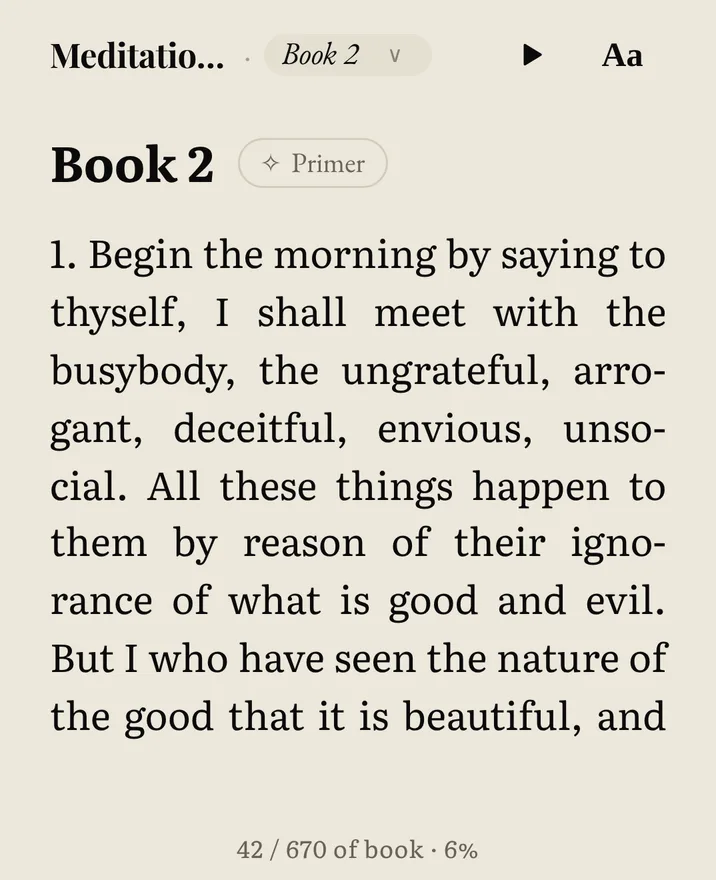
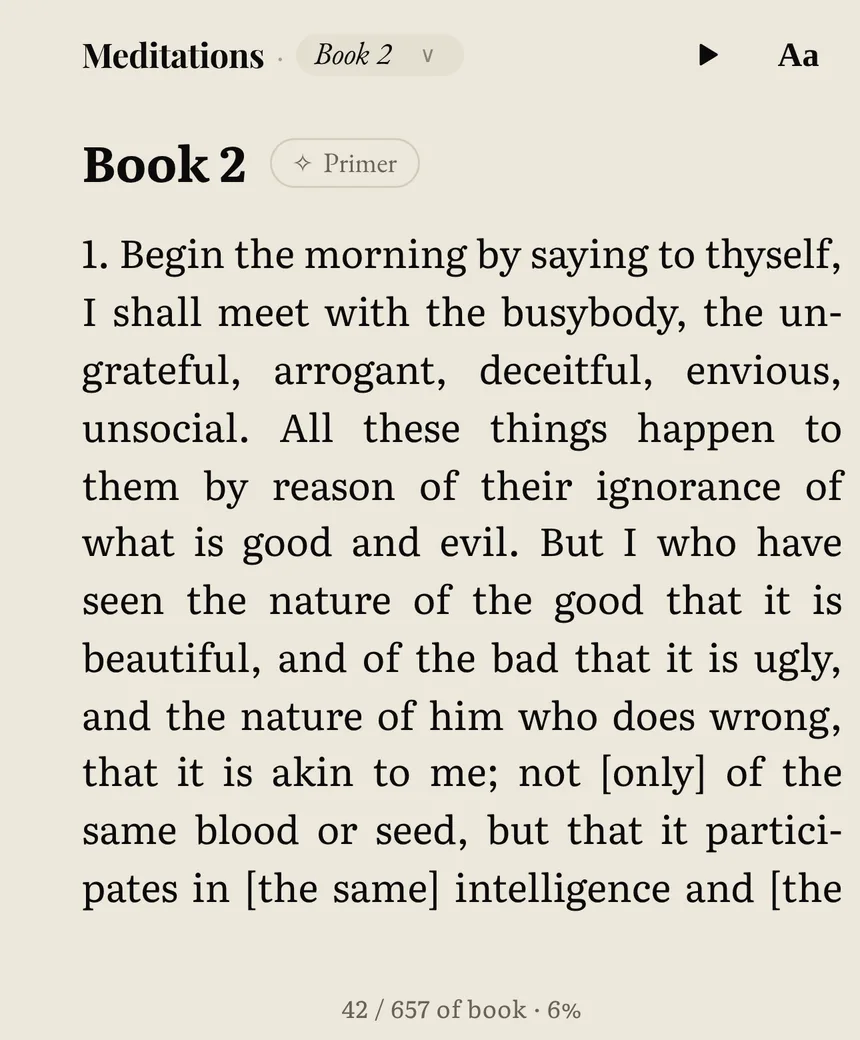
/about: Modern second, word-by-word Listen, blank margin, smaller phone chrome, no card needed
Anders, 19 Nov:
- Order: Explain, Modern, Listen (to the modern English), Summary.
- Listen plays fourteen frames 280 ms apart that cut into each other, so the
  marked word moves word by word instead of jumping.
- Desktop: the margin starts blank (no hint or Primer link in the opening frames).
- Phone: the reader is captured wider (430 px) and shown narrower, so its
  selection menu reads at its real size; the Explain and Summary cards peek
  further (two sentences).
- Top bar on every width: Create account (quiet) and Start reading.
- Pricing: no credit card is needed for the free first month of Premium.

Test change (flagged): tryPage.test.ts now expects the new step order.

Claude-Session: https://claude.ai/code/session_01MT1m8mq3NtYNBEbe7tz8nU

diff --git a/app/public/about.html b/app/public/about.html
@@ -22,9 +22,9 @@
 <link rel="icon" href="/favicon.ico">
 <link rel="stylesheet" href="/fonts/tinct-fonts.css">
 <link rel="stylesheet" href="/lab/tinct-ui.css?v=20261009rel10">
-<link rel="stylesheet" href="/lab/try/try.css?v=20261119wave">
+<link rel="stylesheet" href="/lab/try/try.css?v=20261119order">
 <script type="module" src="/lab/internal-traffic.js"></script>
-<script src="/lab/try/try.js?v=20261119wave" defer></script>
+<script src="/lab/try/try.js?v=20261119order" defer></script>
 </head>
 <body class="try">
 <div class="try-backdrop" aria-hidden="true"></div>
@@ -38,9 +38,7 @@
   </nav>
   <div class="try-account">
     <a class="try-pill try-pill--cream try-only-phone" href="/library">Start reading</a>
-    <a class="try-pill try-pill--outline try-only-wide" href="/sign-in">Sign in</a>
     <a class="try-pill try-pill--outline try-only-phone" href="/sign-in?mode=create">Create account</a>
-    <a class="try-pill try-pill--cream try-only-wide" href="/sign-in?mode=create">Create free account</a>
   </div>
 </header>
 <div class="try-hero" id="try">
@@ -56,17 +54,17 @@
       <p class="try-watching">What you're watching</p>
       <button type="button" class="try-prev" data-try-prev aria-label="Previous"><span aria-hidden="true">←</span></button>
       <p class="try-count"><span data-try-count>1 of 4</span><span class="try-dots" role="group" aria-label="Moments">
-        <button type="button" data-try-step="0" aria-label="Explain anything" aria-current="step"></button><button type="button" data-try-step="1" aria-label="Hear it as you read"></button><button type="button" data-try-step="2" aria-label="Read it in today's words"></button><button type="button" data-try-step="3" aria-label="Get the gist in a minute"></button>
+        <button type="button" data-try-step="0" aria-label="Explain anything" aria-current="step"></button><button type="button" data-try-step="1" aria-label="Read it in today's words"></button><button type="button" data-try-step="2" aria-label="Hear it as you read"></button><button type="button" data-try-step="3" aria-label="Get the gist in a minute"></button>
       </span></p>
       <h2 class="try-step-title"><span class="try-step-num" data-try-num>1. </span><span data-try-title>Explain anything</span></h2>
-      <button type="button" class="try-pill try-pill--outline try-next" data-try-next aria-label="Next"><span class="try-next-word" data-try-upnext>Next: Hear it as you read</span> <span aria-hidden="true">→</span></button>
+      <button type="button" class="try-pill try-pill--outline try-next" data-try-next aria-label="Next"><span class="try-next-word" data-try-upnext>Next: Read it in today's words</span> <span aria-hidden="true">→</span></button>
     </section>
     </div>
 
     <div class="try-show">
       <!-- Frames of the real reader (scripts/capture-try-frames.cjs), Meditations Book 2. The first is in the page; try.js adds the rest. -->
       <a class="try-demo" href="/reader?book=meditations&amp;chapter=2" data-try-demo aria-label="Meditations, Book 2: open it in the reader">
-        <picture class="is-on"><source media="(max-width: 899px)" srcset="/lab/try/frames/phone-01.webp?v=20261119b"><img src="/lab/try/frames/desktop-01.webp?v=20261119b" alt="" width="2112" height="1222" fetchpriority="high"></picture>
+        <picture class="is-on"><source media="(max-width: 899px)" srcset="/lab/try/frames/phone-01.webp?v=20261119c"><img src="/lab/try/frames/desktop-01.webp?v=20261119c" alt="" width="2112" height="1222" fetchpriority="high"></picture>
         <span class="try-demo-open" aria-hidden="true">Open it in the reader</span>
       </a>
       <a class="try-phone-more" href="#pricing">Pricing · Questions <span aria-hidden="true">↓</span></a>
@@ -77,7 +75,7 @@
 <main class="try-below">
   <section class="try-section" id="pricing" aria-labelledby="pricing-title">
     <h2 class="try-section-title" id="pricing-title">Reading is free</h2>
-    <p class="try-section-sub">Premium adds the companion, Talk and audio — and the first month is on us.</p>
+    <p class="try-section-sub">Premium adds the companion, Talk and audio. The first month is on us, and no credit card is needed.</p>
     <div class="try-plans">
       <article class="try-plan">
         <h3>Free</h3>
@@ -102,6 +100,7 @@
           <li>Your own books and PDFs</li>
         </ul>
         <a class="try-pill try-pill--cream try-pill--block" href="/sign-in?mode=create">Create an account — first month free</a>
+        <p class="try-plan-note">No credit card needed</p>
       </article>
     </div>
   </section>

diff --git a/app/public/lab/try/try.js b/app/public/lab/try/try.js
@@ -8,22 +8,25 @@
  */
 (function () {
   'use strict'
-  // The step beside the reader: the copy approved for the step page (18 Nov), in the order the frames play.
+  // The step beside the reader: the copy approved for the step page (18 Nov), in the order the frames play. Modern is
+  // the second move (Anders, 19 Nov), and Listen then plays the modern English.
   var STEPS = [
     { title: 'Explain anything', line: 'Select a passage. The explanation lands beside it, in the margin, and stays there as a note.' },
-    { title: 'Hear it as you read', line: 'Press play. Every word is marked as it is read.' },
     { title: "Read it in today's words", line: 'Switch to modern English. Switch back any time; you stay on the line.' },
+    { title: 'Hear it as you read', line: 'Press play. Every word is marked as it is read.' },
     { title: 'Get the gist in a minute', line: 'Tap Summary beside the chapter. It opens as a card, four beats long.' },
   ]
-  // [file number, step, milliseconds on screen]
+  // [file, step, milliseconds on screen]. Listen is fourteen frames 280 ms apart, as captured, so the marked word moves
+  // word by word (Anders, 19 Nov: it lagged); they cut, not fade, into each other.
   var FRAMES = [
     ['01', 0, 1300], ['02', 0, 1500], ['04', 0, 3200],
-    ['05', 1, 1300], ['06', 1, 1300], ['07', 1, 1500],
-    ['08', 2, 3200],
+    ['08', 1, 3200],
+    ['11', 2, 280], ['12', 2, 280], ['13', 2, 280], ['14', 2, 280], ['15', 2, 280], ['16', 2, 280], ['17', 2, 280],
+    ['18', 2, 280], ['19', 2, 280], ['20', 2, 280], ['21', 2, 280], ['22', 2, 280], ['23', 2, 280], ['24', 2, 900],
     ['10', 3, 3600],
   ]
   // Bump when the frames are re-captured, so browsers fetch the new ones.
-  var FRAMES_V = '20261119b'
+  var FRAMES_V = '20261119c'
   var reduce = window.matchMedia('(prefers-reduced-motion: reduce)').matches
 
   var $ = function (selector, root) { return (root || document).querySelector(selector) }
@@ -51,11 +54,12 @@
   var visible = true
 
   // The frame that switches to modern English arrives as a wave running down the page (the launch film's switch).
-  var WAVE = FRAMES.map(function (frame, i) { return i > 0 && frame[1] === 2 && FRAMES[i - 1][1] !== 2 })
+  var WAVE = FRAMES.map(function (frame, i) { return i > 0 && frame[1] === 1 && FRAMES[i - 1][1] !== 1 })
   var shown = -1
   function paint() {
     var wave = !reduce && shown >= 0 && shown !== index && WAVE[index]
     var under = wave ? shown : -1
+    demo.classList.toggle('is-cut', shown >= 0 && FRAMES[shown][1] === 2 && FRAMES[index][1] === 2)
     pictures.forEach(function (picture, i) {
       picture.classList.remove('is-wave', 'is-under')
       picture.classList.toggle('is-on', i === index)

diff --git a/app/public/lab/try/try.css b/app/public/lab/try/try.css
@@ -300,3 +300,16 @@ html[data-eink="true"] .try-backdrop { display: none; }
 }
 @media (max-width: 374px) { .try-headline { font-size: 23px; } .try-step { column-gap: 10px; } .try-step-title { font-size: 14px; white-space: normal; } .try-demo { top: calc(max(8px, env(safe-area-inset-top, 0px)) + 126px); } }
 @media (prefers-reduced-motion: reduce) { .try-demo picture.is-wave img { animation: none; -webkit-mask-image: none; mask-image: none; } }
+
+/* Listen's frames cut into each other: a fade between them smears the marked word (Anders, 19 Nov). */
+.try-demo.is-cut img { transition: none; }
+/* Premium needs no card to start (Anders, 19 Nov). */
+.try-plan-note { margin: 10px 0 0; text-align: center; font: 400 13px/1.3 var(--tui-font-ui); color: var(--try-muted-on-dark); }
+/* The top bar on every width (Anders, 19 Nov): a quiet Create account and the cream Start reading, as on the phone. */
+@media (min-width: 900px) {
+  .try-account { align-items: center; gap: 18px; }
+  .try-account .try-only-phone { display: inline-flex; }
+  .try-account .try-pill--cream.try-only-phone { order: 2; }
+  .try-account .try-pill--outline.try-only-phone { border-color: transparent; background: transparent; padding: 0 2px; color: var(--try-muted-on-dark); }
+  .try-account .try-pill--outline.try-only-phone:hover { color: var(--try-cream-ink); }
+}

diff --git a/app/src/tryPage.test.ts b/app/src/tryPage.test.ts
@@ -179,7 +179,7 @@ describe('the reader plays itself (Anders, 19 Nov 2026)', () => {
 
   it('shows four steps in the order the frames play them, and asks the visitor to do nothing', () => {
     const titles = [...script.matchAll(/\{ title: '((?:[^'\\]|\\.)*)'|\{ title: "([^"]+)"/g)].map(match => match[1] ?? match[2])
-    expect(titles).toEqual(['Explain anything', 'Hear it as you read', "Read it in today's words", 'Get the gist in a minute'])
+    expect(titles).toEqual(['Explain anything', "Read it in today's words", 'Hear it as you read', 'Get the gist in a minute'])
     expect(page).toContain('<span data-try-title>Explain anything</span>')
     expect(frames.map(frame => frame.step)).toEqual([...frames.map(frame => frame.step)].sort())
     expect(new Set(frames.map(frame => frame.step))).toEqual(new Set([0, 1, 2, 3]))
